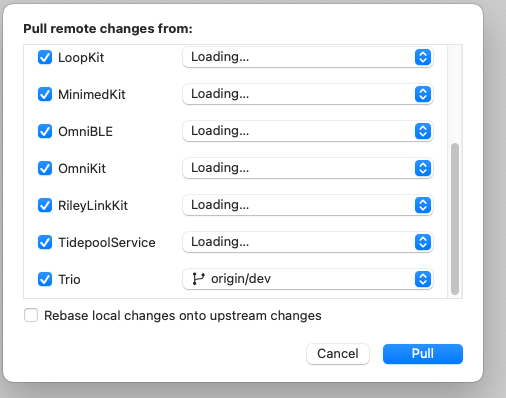
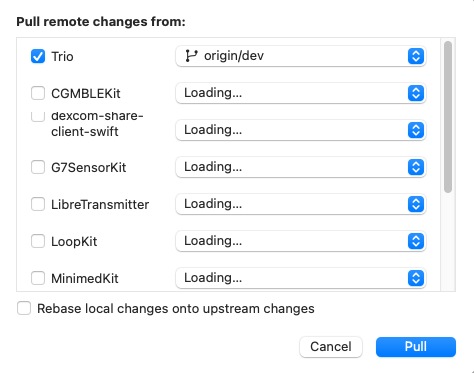
Add Xcode Behaviors

diff --git a/docs/EN/operate/build.md b/docs/EN/operate/build.md
@@ -224,18 +224,19 @@ Open Xcode. If your Trio workspace is not already open, you can usually find it 
 
 Once the fetch process completes, use the `Integrate` menu item again
 * Select `Pull…` as show in the two graphics below
-* WIP here - I not sure does a `git pull --recurse`; in other words, the submodules might not be updated
-* more work will be done on this, but be cautious if submodules need to be updated
+* This only updates Trio workspace, it does not pull in the changes from the submodules
 
 ![update using xcode source control - continue with pull](img/update-xcode-source-control-pull.png){width="600px"}
 
 Refer to the graphic below:
-1. Select all the submodules and the Trio branch to pull from
-2. Click `Pull`
+1. Select the Trio branch to pull from
+    * The correct branch should already be selected for you
+    * If you built from `main`, select `main`
+    * (This graphic was acquired using `dev`.)
+2. Ignore the submodules, they do not need to be selected
+3. Click `Pull`
 
 ![update using xcode source control - chose trio branch and submodules](img/update-xcode-pull-selection.png){width="350px"}
-
-The correct branch should already be selected for you. If you built from `main`, select `main`. If you built from `dev`, select `dev`. (This graphic was acquired using `dev`.)
 
 After you click on pull, if you made any local changes to the code, the `Stash Changes` pop-up will appear:
 
@@ -245,15 +246,64 @@ After you click on pull, if you made any local changes to the code, the `Stash C
     - Select “Apply Stash After Operation”
 - Click “Stash and Pull”
 
-The Trio code is now updated. That was easy. If you used the build script that automatically creates your ConfigOverride file, the targets are already signed, and you are ready to build the Trio app on your phone.
+The Trio workspace code is now updated, but not the submodules.
 
-* WIP here - I not sure does a `git pull --recurse`; in other words, the submodules might not be update
+#### Update Trio Submodules
 
-The following section is only for those who prefer to use the command line interface for `git`. Skip ahead to [Verify Trio Version](#verify-trio-version).
+The submodules can be updated using the procedures in [Update Trio with CLI](#update-trio-with-cli). Alternatively, you can make an [Xcode Behaviors](#xcode-behaviors) that will do it for you.
+
+If you have configured Xcode Behaviors, then tap on the Xcode menu item, then Behaviors and choose `Update Submodules`.
+
+If there are errors, you can continue in this terminal window using the instructions found in [Update Trio with CLI](#update-trio-with-cli).
+
+#### Xcode Behaviors
+
+You can add Xcode behaviors to your version of Xcode. These custom behaviors will be available every time once you add them.
+
+You will create two shell scripts, one will open a Terminal at the same location as an open workspace, the other will both open a Terminal and Update the submodules for your Trio workspace. 
+
+Open a new terminal:
+
+Step 1: Create a folder to store your shell scripts by copying and pasting the next line (only do this one time or you will get an error message):
+
+```
+mkdir ~/scripts
+```
+
+Step 2: Open a text-only editor with a blank file, copy and paste the following lines and save it as `~/scripts/open_terminal.sh`
+
+```
+#!/bin/bash
+open -a Terminal "`pwd`"
+```
+
+Step 3: Open a text-only editor with a blank file, copy and paste the following lines and save it as `~/scripts/open_terminal_update_submodules.sh`
+
+```
+#!/bin/bash
+open -a Terminal "`pwd`"
+git pull --recurse
+```
+
+Step 4: Make the shell scripts executable: 
+Copy and paste the following line into any terminal window
+
+```
+chmod +x ~/scripts/*.sh
+```
+
+Step 5: Open Xcode
+* Under Xcode, select Behaviors, Edit Behaviors
+* At the bottom of the window, click the `+` sign
+    * Under the Custom section, you should see the New Behavior row, enter `Open Terminal`
+    * On the right side at the bottom, click on Run, then `Choose Script` and select `~/scripts/open_terminal.sh`
+* Repeat those two steps with `Update Submodules` and `~/scripts/open_terminal_update_submodules.sh`
 
 ### Update Trio with CLI
 
-Use finder to locate the directory where the BuildTrio script saved the code. The directory is named after the branch with the date and time for the download:
+This section is only for those who prefer to use the command line interface for `git`.
+
+If you added the [Xcode Behaviors](#xcode-behaviors), you can use the Xcode, Behaviors, Open Terminal to start a terminal at the correct location. If not, use finder to locate the directory where the BuildTrio script saved the code. The directory is named after the branch with the date and time for the download:
 
 * Released (main) branch: Downloads/BuildTrio/Trio_main-[date-time]/Trio
     * Example: ~/Downloads/BuildTrio/Trio_main-220122-1352/Trio
@@ -279,6 +329,18 @@ git stash pop
 
 If the final `git stash pop` had errors, you must repeat any customizations you made in your prior code—they are no longer compatible with the updated code.
 
+If you made customizations in any of the submodules, the `recurse` command might fail. You need to read which submodule failed, Change directory to that module, stash your changes and try again. For example, if the OmniBLE module could not be updated, you would take actions similar to the example below:
+
+```
+cd OmniBLE
+git stash
+cd ..
+git pull --recurse
+cd OmniBLE
+git stash pop
+cd ..
+```
+
 The Trio code is now updated. To open the workspace in Xcode, type `xed .` in your terminal window.
 
 The targets should be signed, and you will be ready to build the Trio app on your phone.
@@ -289,4 +351,4 @@ Verify that the Trio code was successfully updated by examining the `APP_VERSION
 
 If using the GitHub method, you can view this same file in your fork of the Trio repository.
 
-<img src="https://github.com/nightscout/trio-docs/assets/31315442/33f8c870-4241-43b3-af99-294ab95d26ca" width="600px"/>
+TODO: - add a figure here later
